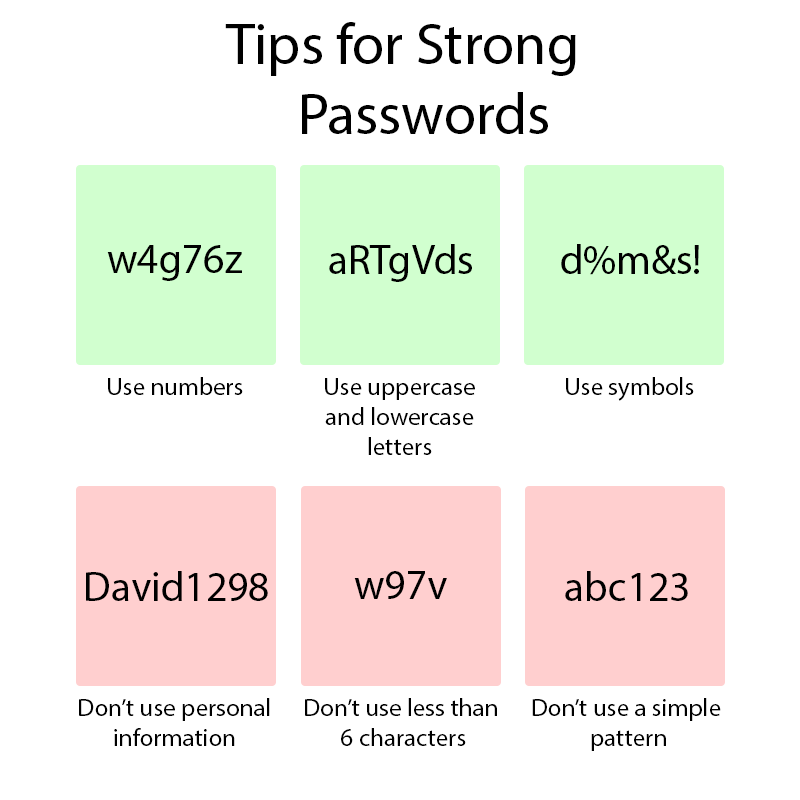
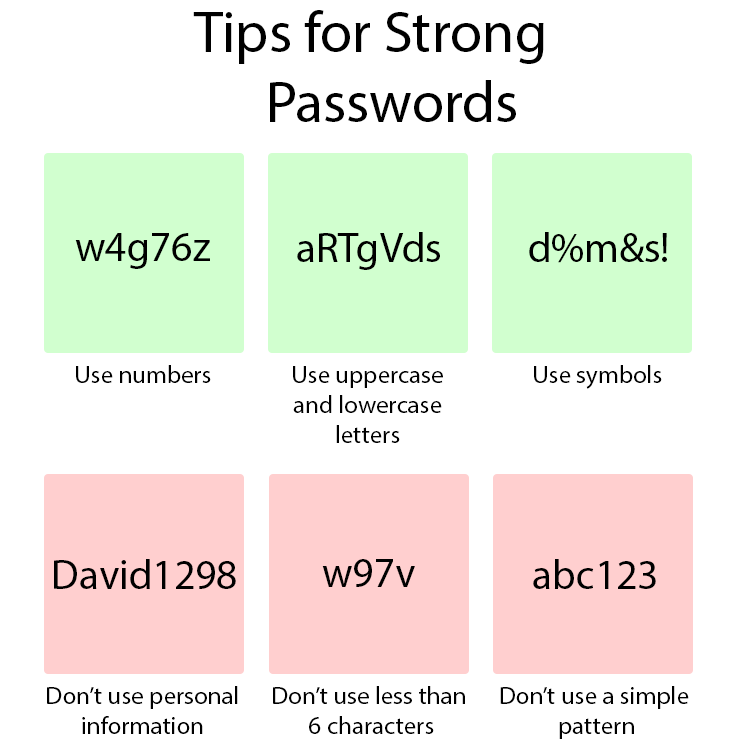
Fixed sizing of cards for better visibility

Changed region(s): [[0.0619, 0.1845, 0.9596, 0.984], [0.2476, 0.0, 0.7429, 0.1845], [0.4334, 0.7072, 0.5572, 0.7995]]

diff --git a/script.js b/script.js
@@ -206,25 +206,25 @@ function setup() {
 
   worst = new cards.Sprite(width / 4 - 67, height - (height / 3) + 95);
   worst.addImage(worstImg);
-  worst.scale = 0.6;
+  worst.scale = 1.1;
   cards[0] = worst;
   worst.originalPosition = createVector(width / 4 - 67, height - (height / 3) + 95);
 
   secondWorst = new cards.Sprite((width / 2 - 145), height - (height / 3) + 175);
   secondWorst.addImage(secondWorstImg);
-  secondWorst.scale = 0.6;
+  secondWorst.scale = 1.1;
   cards[1] = secondWorst;
   secondWorst.originalPosition = createVector(width / 2 - 145, height - (height / 3) + 175);
 
   secondBest = new cards.Sprite(width / 2 - 60, height - (height / 3) + 95);
   secondBest.addImage(secondBestImg);
-  secondBest.scale = 0.6;
+  secondBest.scale = 1.0;
   cards[2] = secondBest;
   secondBest.originalPosition = createVector(width / 2 - 60, height - (height / 3) + 95);
 
   Best = new cards.Sprite(width / 2 + 33, height - (height / 3) + 175);
   Best.addImage(BestImg);
-  Best.scale = 0.6;
+  Best.scale = .9;
   cards[3] = Best;
   Best.originalPosition = createVector(width / 2 + 33, height - (height / 3) + 175);
 
